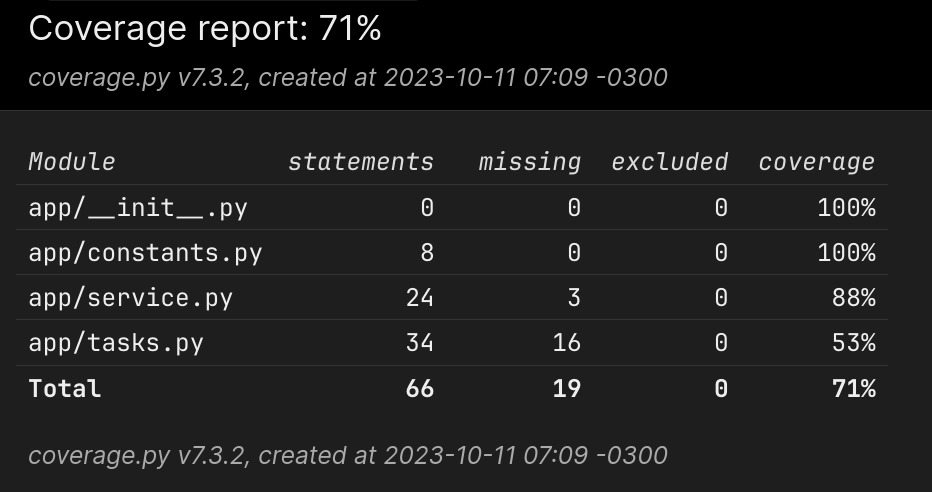
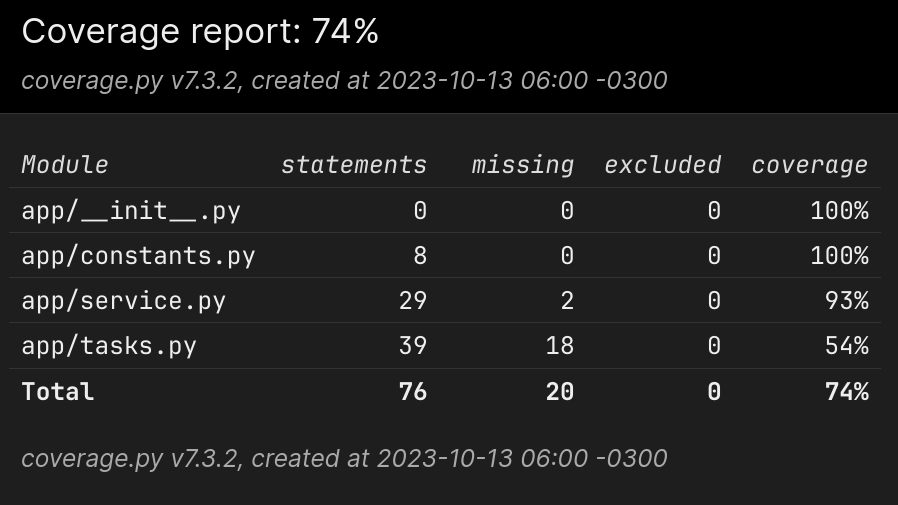
Minor changes@5

diff --git a/tests/test_service.py b/tests/test_service.py
@@ -49,6 +49,12 @@ def test_post_no_provided_user_id_must_return_empty_response(client):
     assert response.status_code == 422
 
 
+def test_post_no_existent_user_id_must_return_not_found_error(client):
+    response = client.get("/weather/6969")
+
+    assert response.status_code == 404
+
+
 def test_redirect_must_return_200(client):
     response = client.get("/")
 
